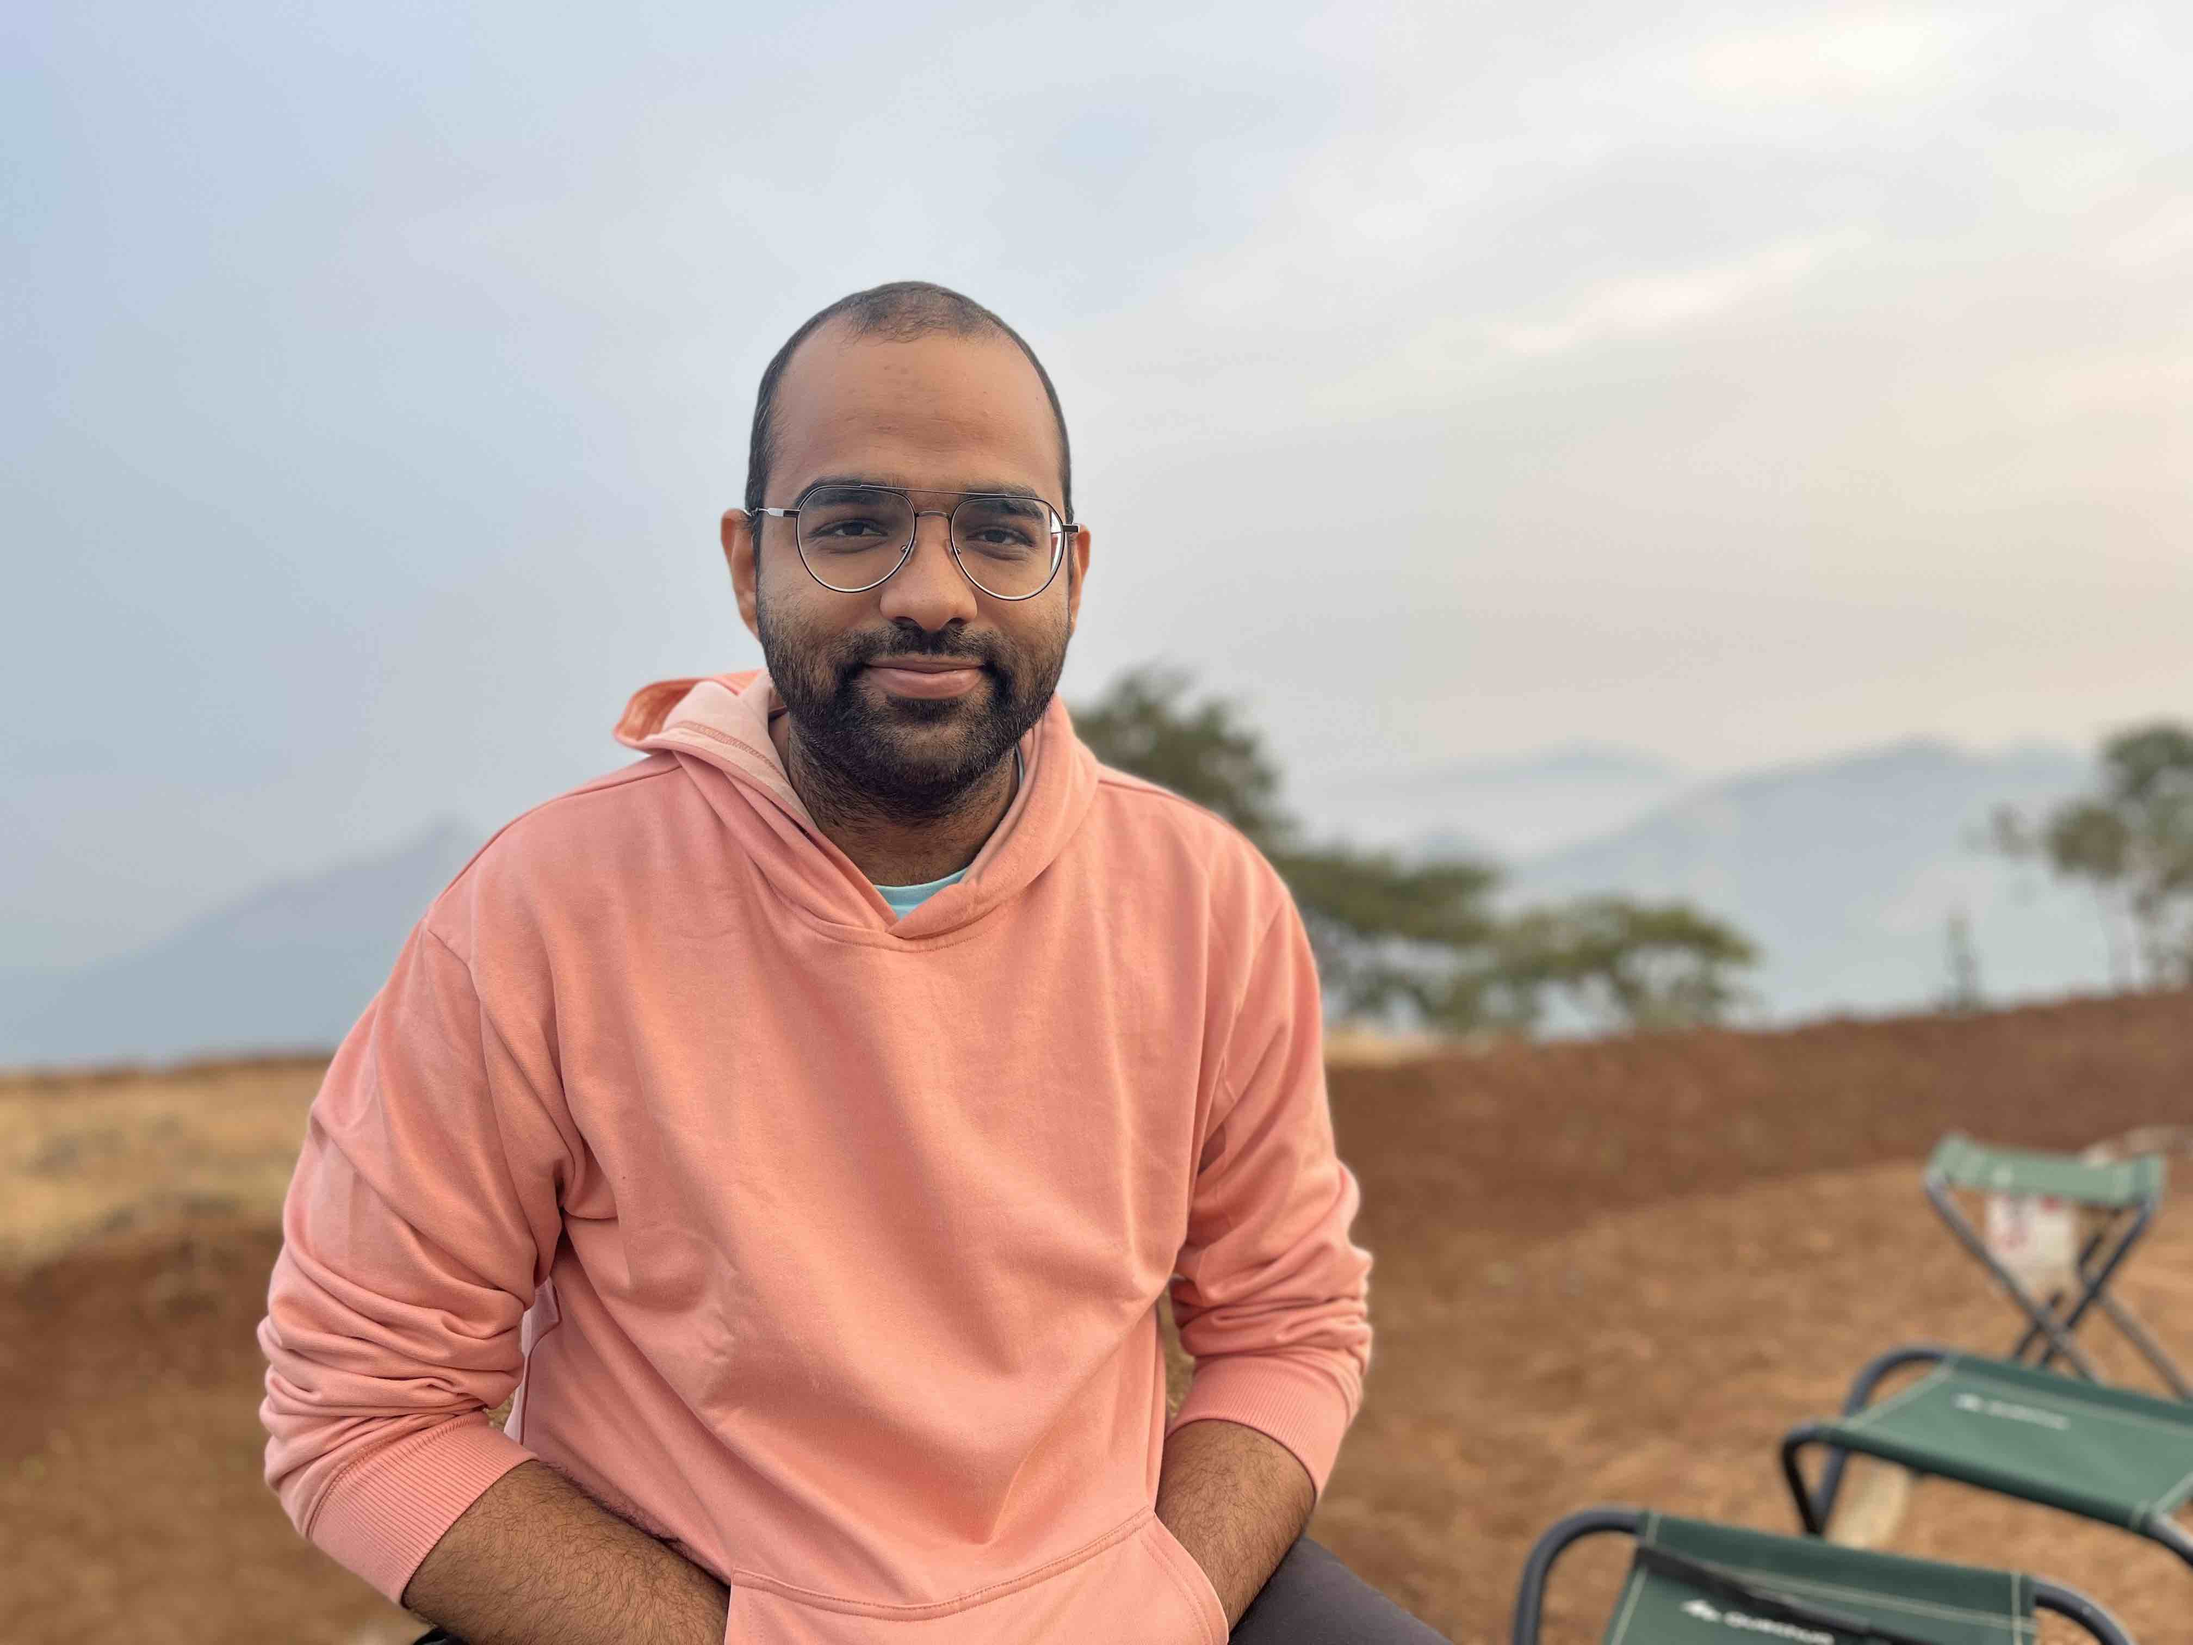
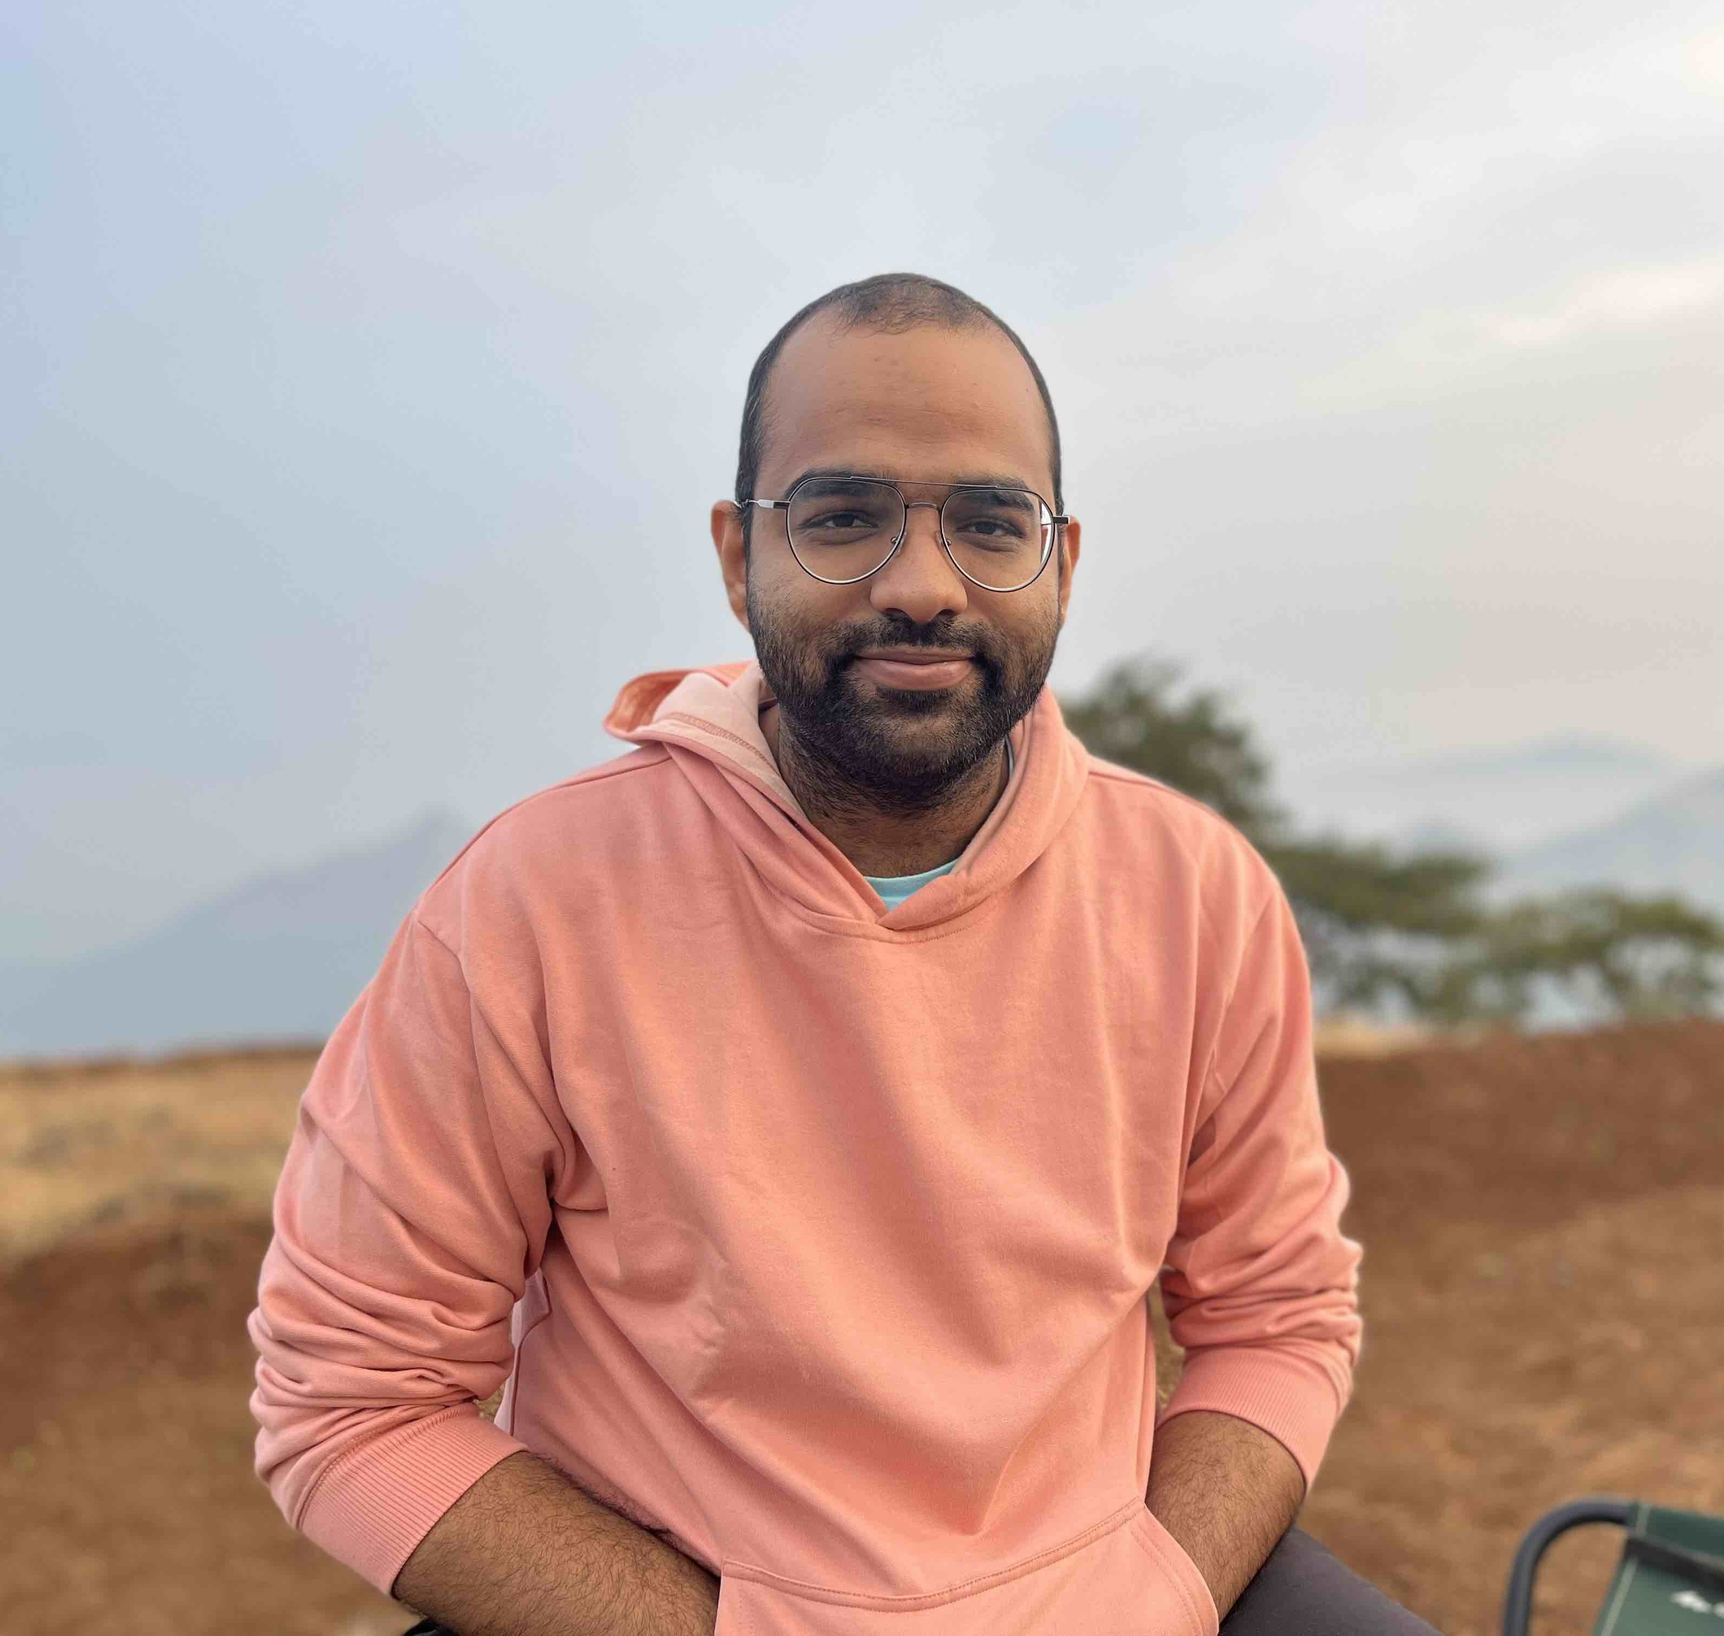
partial changes

diff --git a/css/main.scss b/css/main.scss
@@ -101,3 +101,11 @@ firstp {
 	height: 400px;
 }
 
+.team-photo {
+	width: 25%; /* Fixed width */
+	height: 120px; /* Fixed height */
+	object-fit: cover; /* Cover the frame, cropping if necessary */
+	float: left; /* Align with the text */
+	margin-right: 15px; /* Space between the image and the text */
+	border-radius: 100%; /* Optional: makes the image round */
+  }

diff --git a/_pages/team.md b/_pages/team.md
@@ -79,7 +79,7 @@ Jump to [staff](#staff), [master and bachelor students](#master-and-bachelor-stu
 
 
 ## Ph.D. Scholars
-<!-- ## Master and Bachelor Students -->
+<!-- ## PhD Students -->
 {% assign number_printed = 0 %}
 {% for member in site.data.students %}
 
@@ -90,34 +90,17 @@ Jump to [staff](#staff), [master and bachelor students](#master-and-bachelor-stu
 {% endif %}
 
 <div class="col-sm-6 clearfix">
-  <img src="{{ site.url }}{{ site.baseurl }}/images/teampic/{{ member.photo }}" class="img-responsive" width="25%" style="float: left" />
+  <!-- <div class="team-photo-container"> -->
+  <img src="{{ site.url }}{{ site.baseurl }}/images/teampic/{{ member.photo }}" class="img-responsive team-photo" />
+  <!-- </div> -->
   <h4> <a href="{{ member.website }}" target="_blank">{{ member.name }}</a> </h4>
-  <i>{{ member.info }} <!-- <br>email: <{{ member.email }}></i> -->
-  <ul style="overflow: hidden">
+  <i>{{ member.info }} <br>email: <{{ member.email }}></i>
+  
+  <div style="overflow: hidden">
+  <p>Research Area: {{ member.research }}</p>
+   
 
-  {% if member.number_educ == 1 %}
-  <li> {{ member.education1 }} </li>
-  {% endif %}
-
-  {% if member.number_educ == 2 %}
-  <li> {{ member.education1 }} </li>
-  <li> {{ member.education2 }} </li>
-  {% endif %}
-
-  {% if member.number_educ == 3 %}
-  <li> {{ member.education1 }} </li>
-  <li> {{ member.education2 }} </li>
-  <li> {{ member.education3 }} </li>
-  {% endif %}
-
-  {% if member.number_educ == 4 %}
-  <li> {{ member.education1 }} </li>
-  <li> {{ member.education2 }} </li>
-  <li> {{ member.education3 }} </li>
-  <li> {{ member.education4 }} </li>
-  {% endif %}
-
-  </ul>
+  </div>
 </div>
 
 {% assign number_printed = number_printed | plus: 1 %}

diff --git a/_pages/abc.md b/_pages/abc.md
@@ -1,0 +1,11 @@
+---
+title: "SPRING - Research"
+layout: textlay
+excerpt: "SPRING -- Research"
+sitemap: false
+permalink: /research/abc/
+---
+
+# Research
+
+ABC
